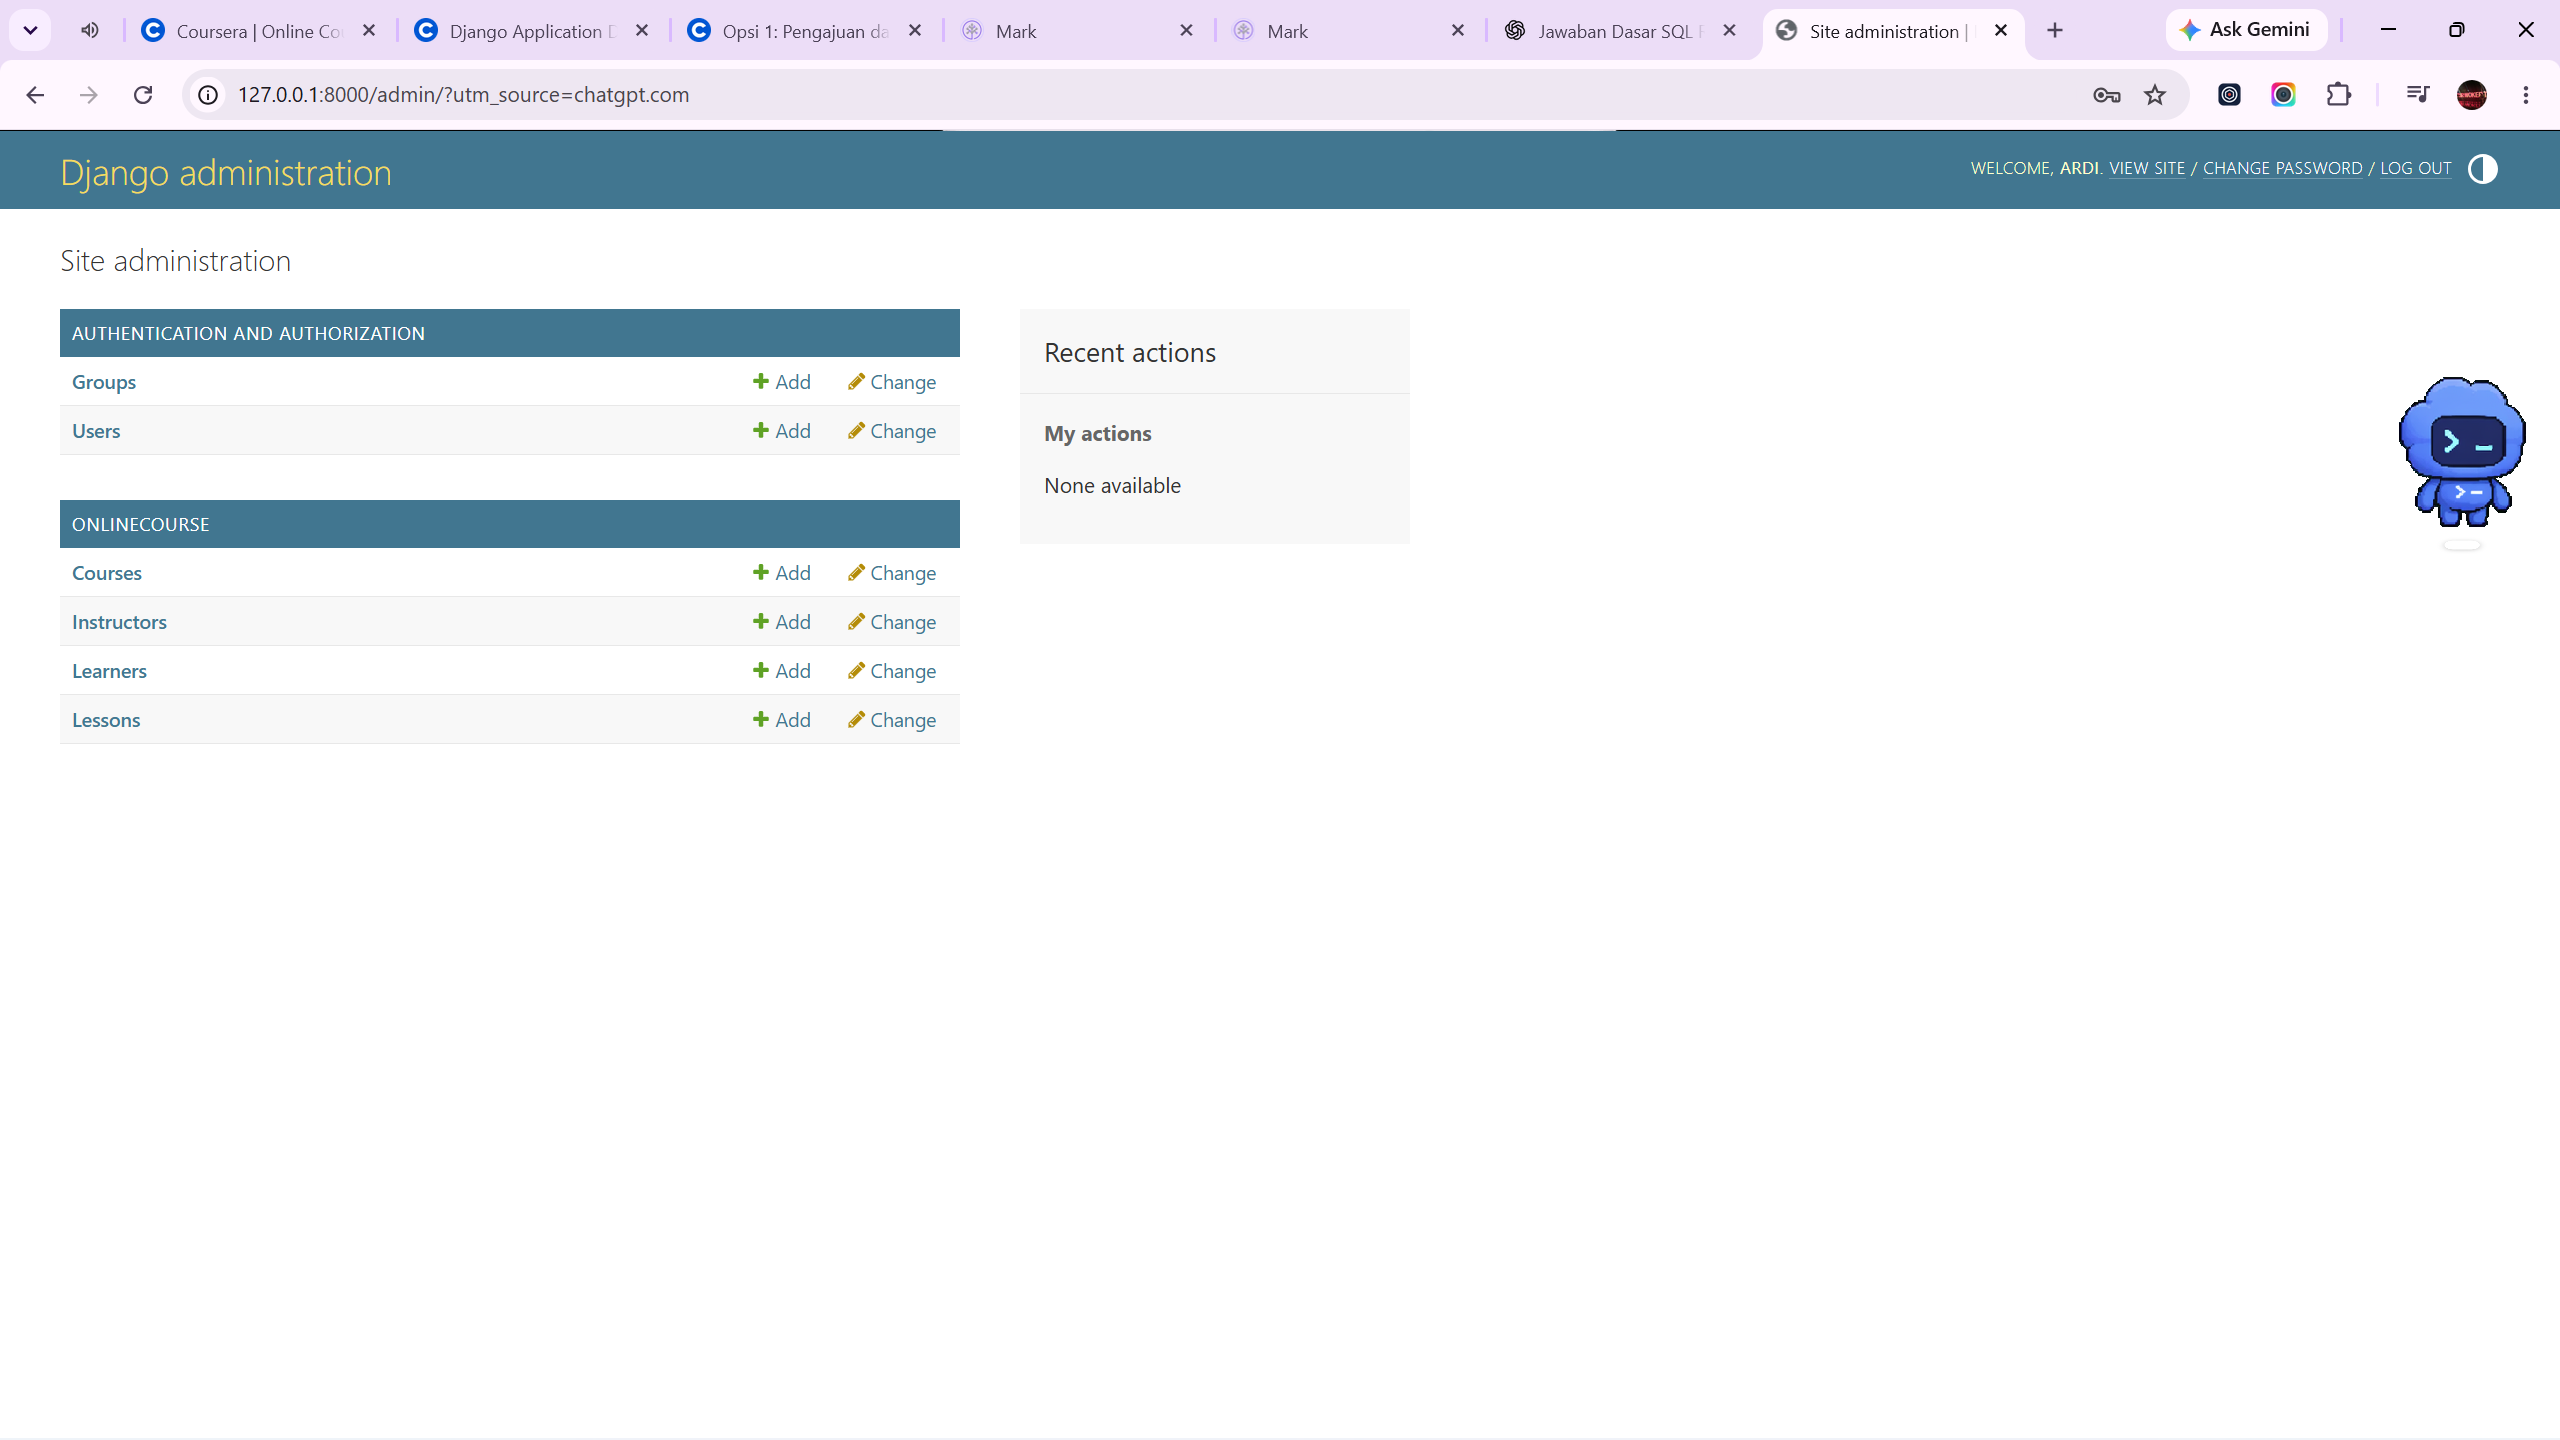
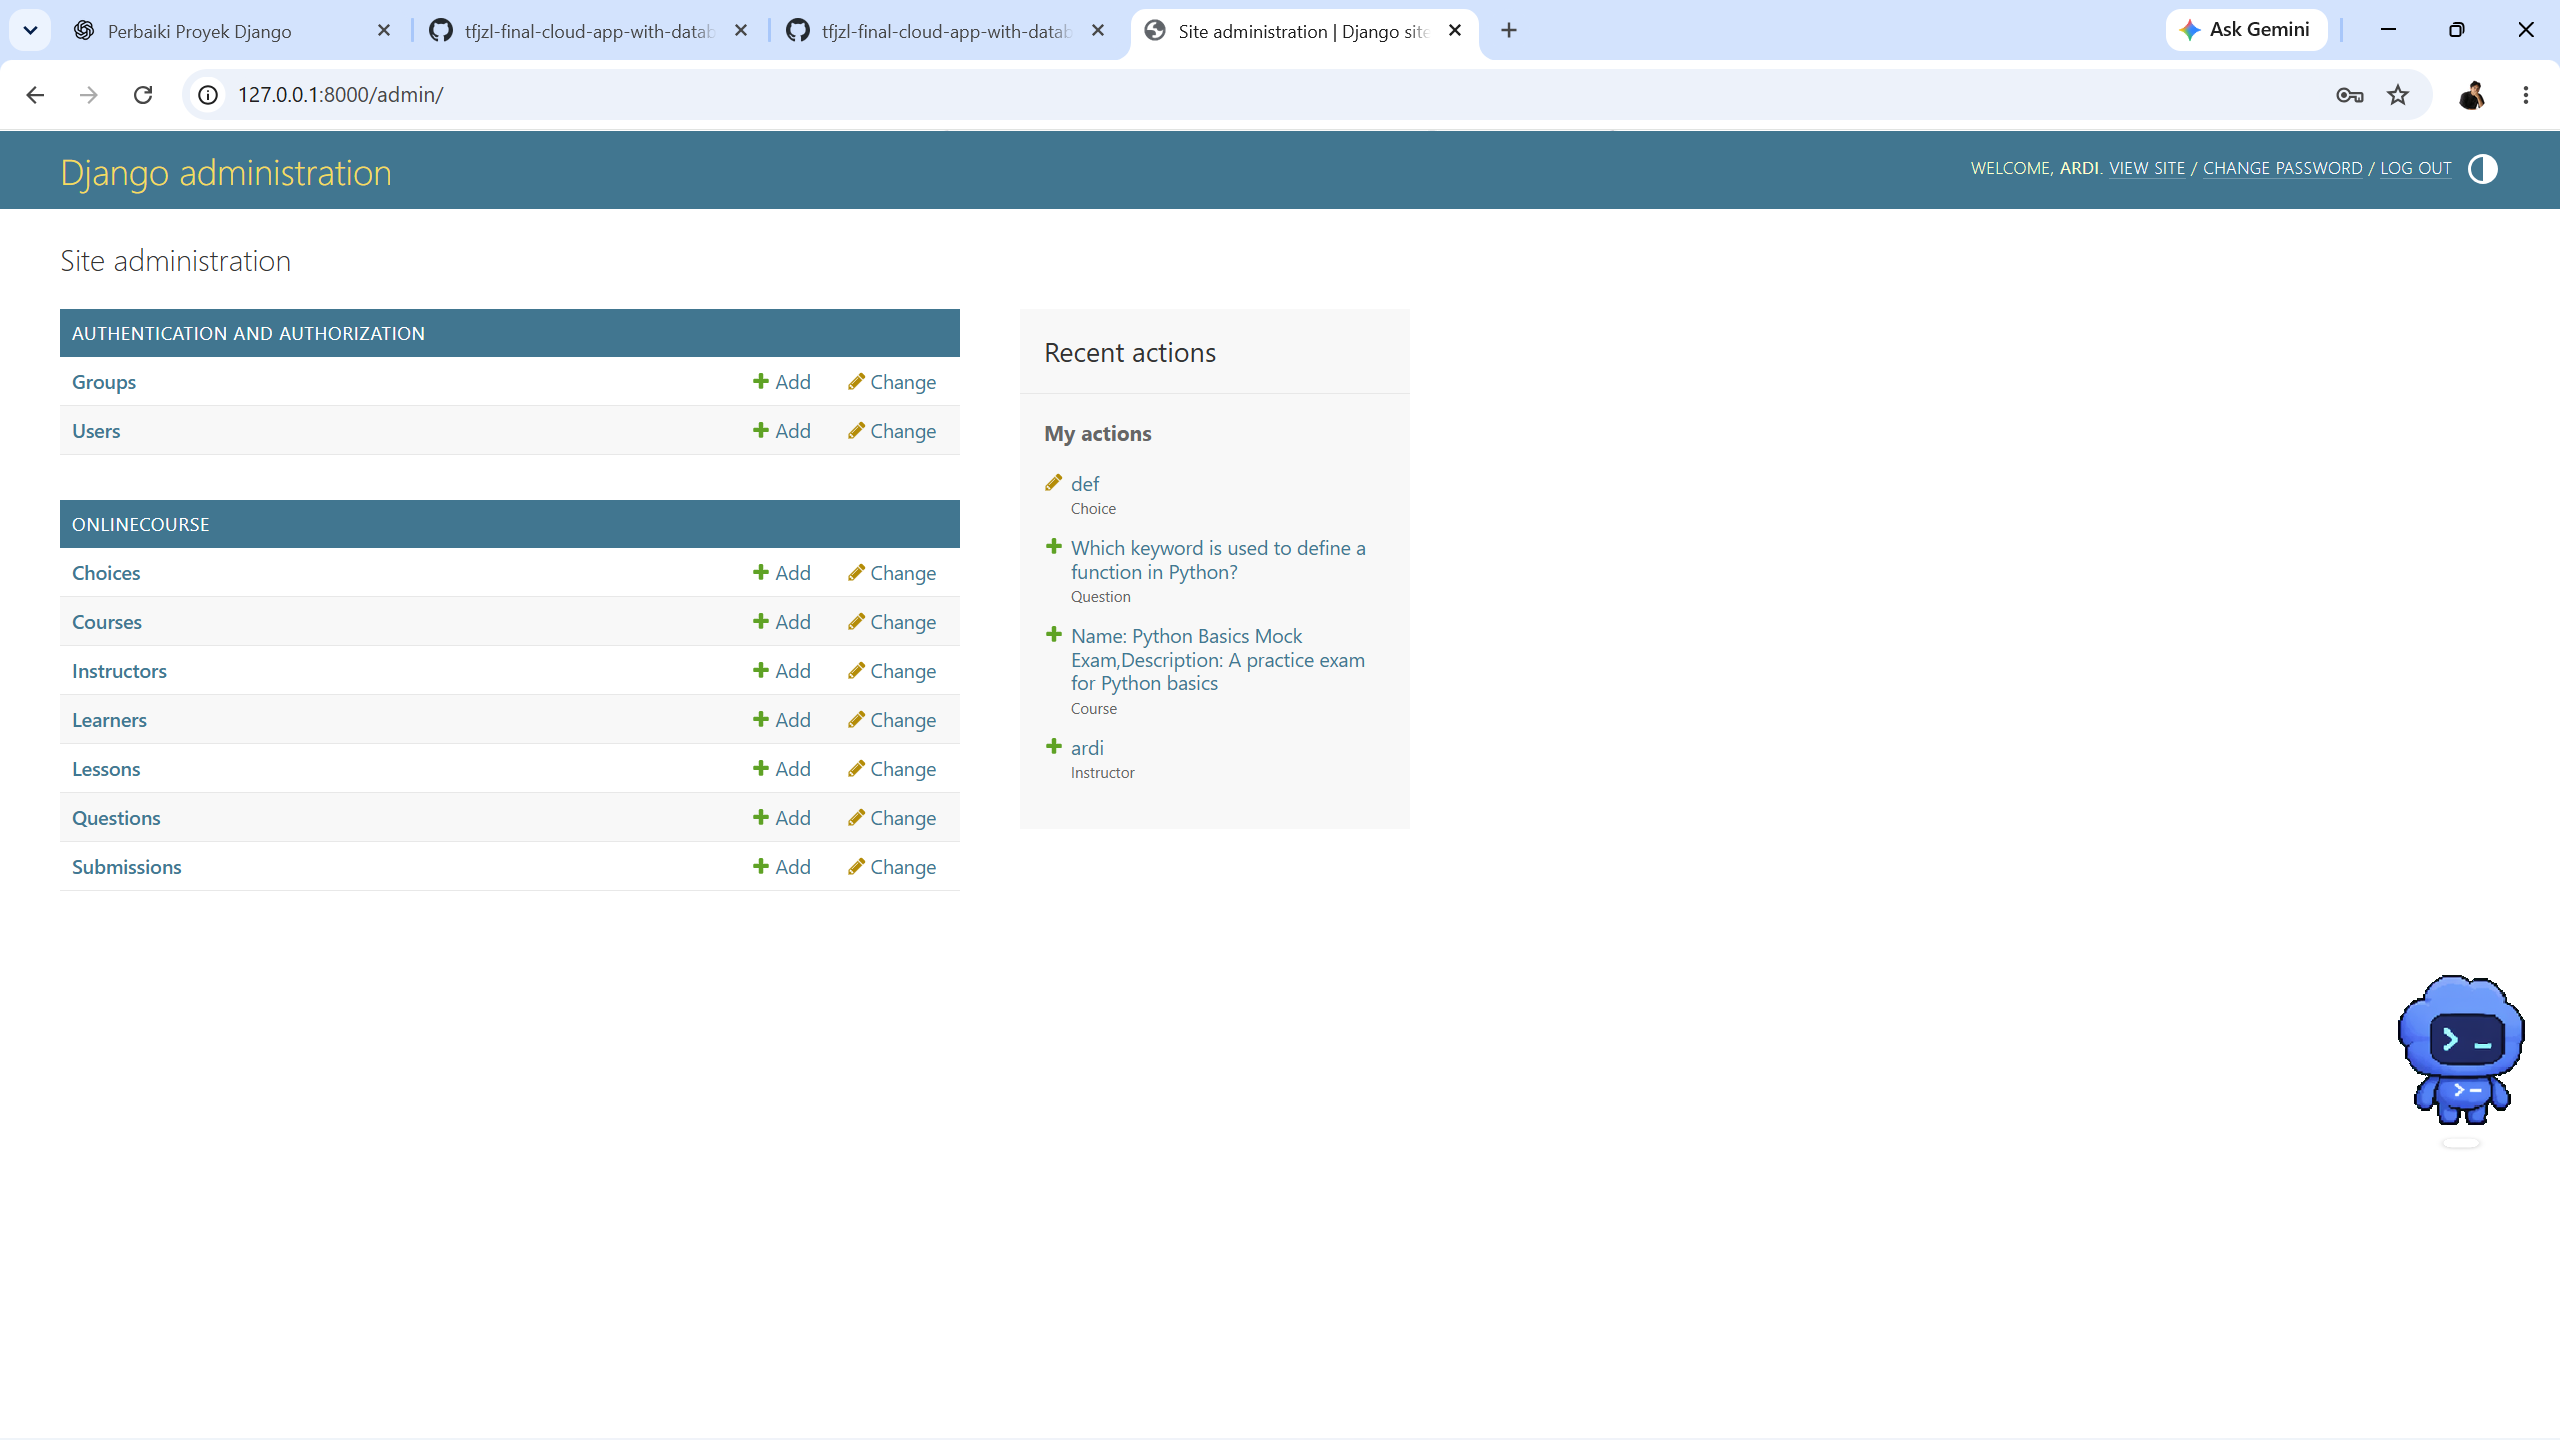
commit_report

diff --git a/onlinecourse/admin.py b/onlinecourse/admin.py
@@ -11,21 +11,19 @@ from .models import (
 )
 
 
+# Inline lessons inside a course
 class LessonInline(admin.StackedInline):
     model = Lesson
     extra = 5
 
 
-class QuestionInline(admin.StackedInline):
-    model = Question
-    extra = 2
-
-
+# Inline choices inside a question
 class ChoiceInline(admin.StackedInline):
     model = Choice
     extra = 2
 
 
+# Course administration
 class CourseAdmin(admin.ModelAdmin):
     inlines = [LessonInline]
     list_display = ('name', 'pub_date')
@@ -33,16 +31,20 @@ class CourseAdmin(admin.ModelAdmin):
     search_fields = ['name', 'description']
 
 
+# Question administration
 class QuestionAdmin(admin.ModelAdmin):
     inlines = [ChoiceInline]
     list_display = ['question_text', 'course', 'grade']
+    search_fields = ['question_text']
 
 
+# Lesson administration
 class LessonAdmin(admin.ModelAdmin):
-    inlines = [QuestionInline]
     list_display = ['title', 'course']
+    search_fields = ['title']
 
 
+# Register models in Django Admin
 admin.site.register(Course, CourseAdmin)
 admin.site.register(Lesson, LessonAdmin)
 admin.site.register(Instructor)
